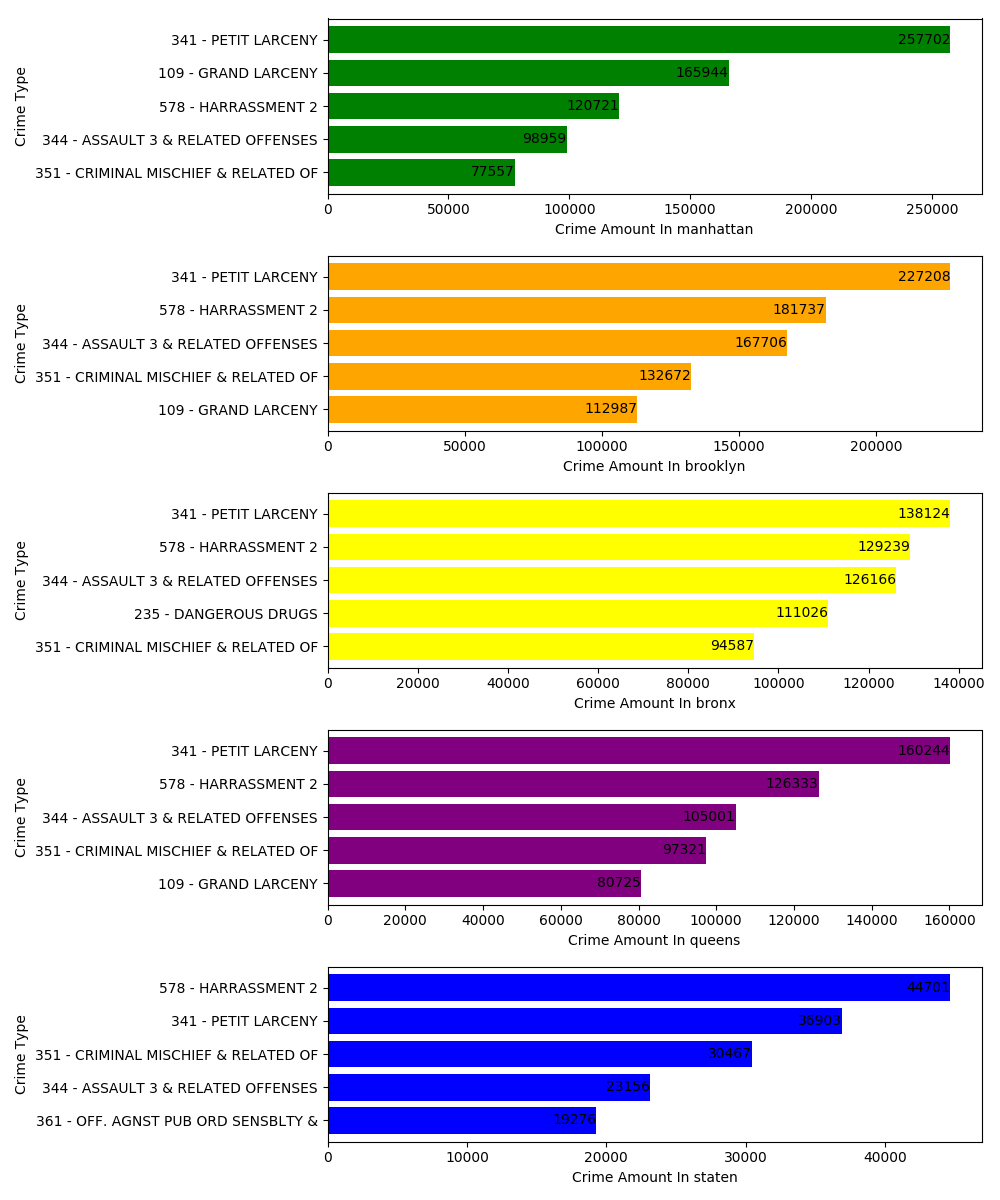
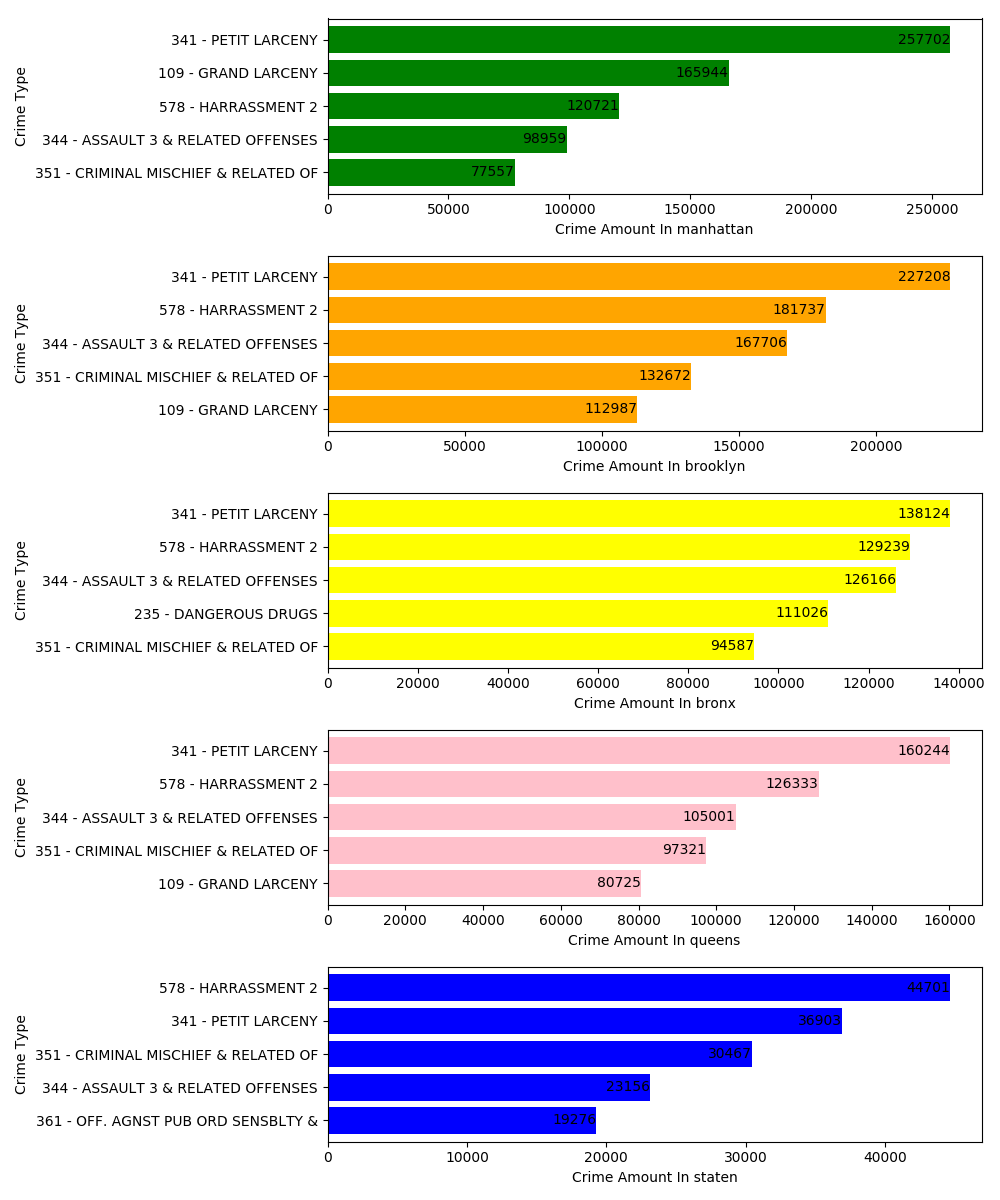
[plot] updated plots

Changed region(s): [[0.31, 0.6167, 0.961, 0.7708]]

diff --git a/plot/plot_crime_top_5_type_each_borough.py b/plot/plot_crime_top_5_type_each_borough.py
@@ -5,7 +5,7 @@ import matplotlib.pyplot as plt
 import csv
 
 boroughs = ('manhattan', 'brooklyn', 'bronx', 'queens', 'staten')
-colors = ('green', 'orange', 'yellow', 'purple', 'blue')
+colors = ('green', 'orange', 'yellow', 'pink', 'blue')
 
 def auto_label(rects, index):
     for rect in rects:
